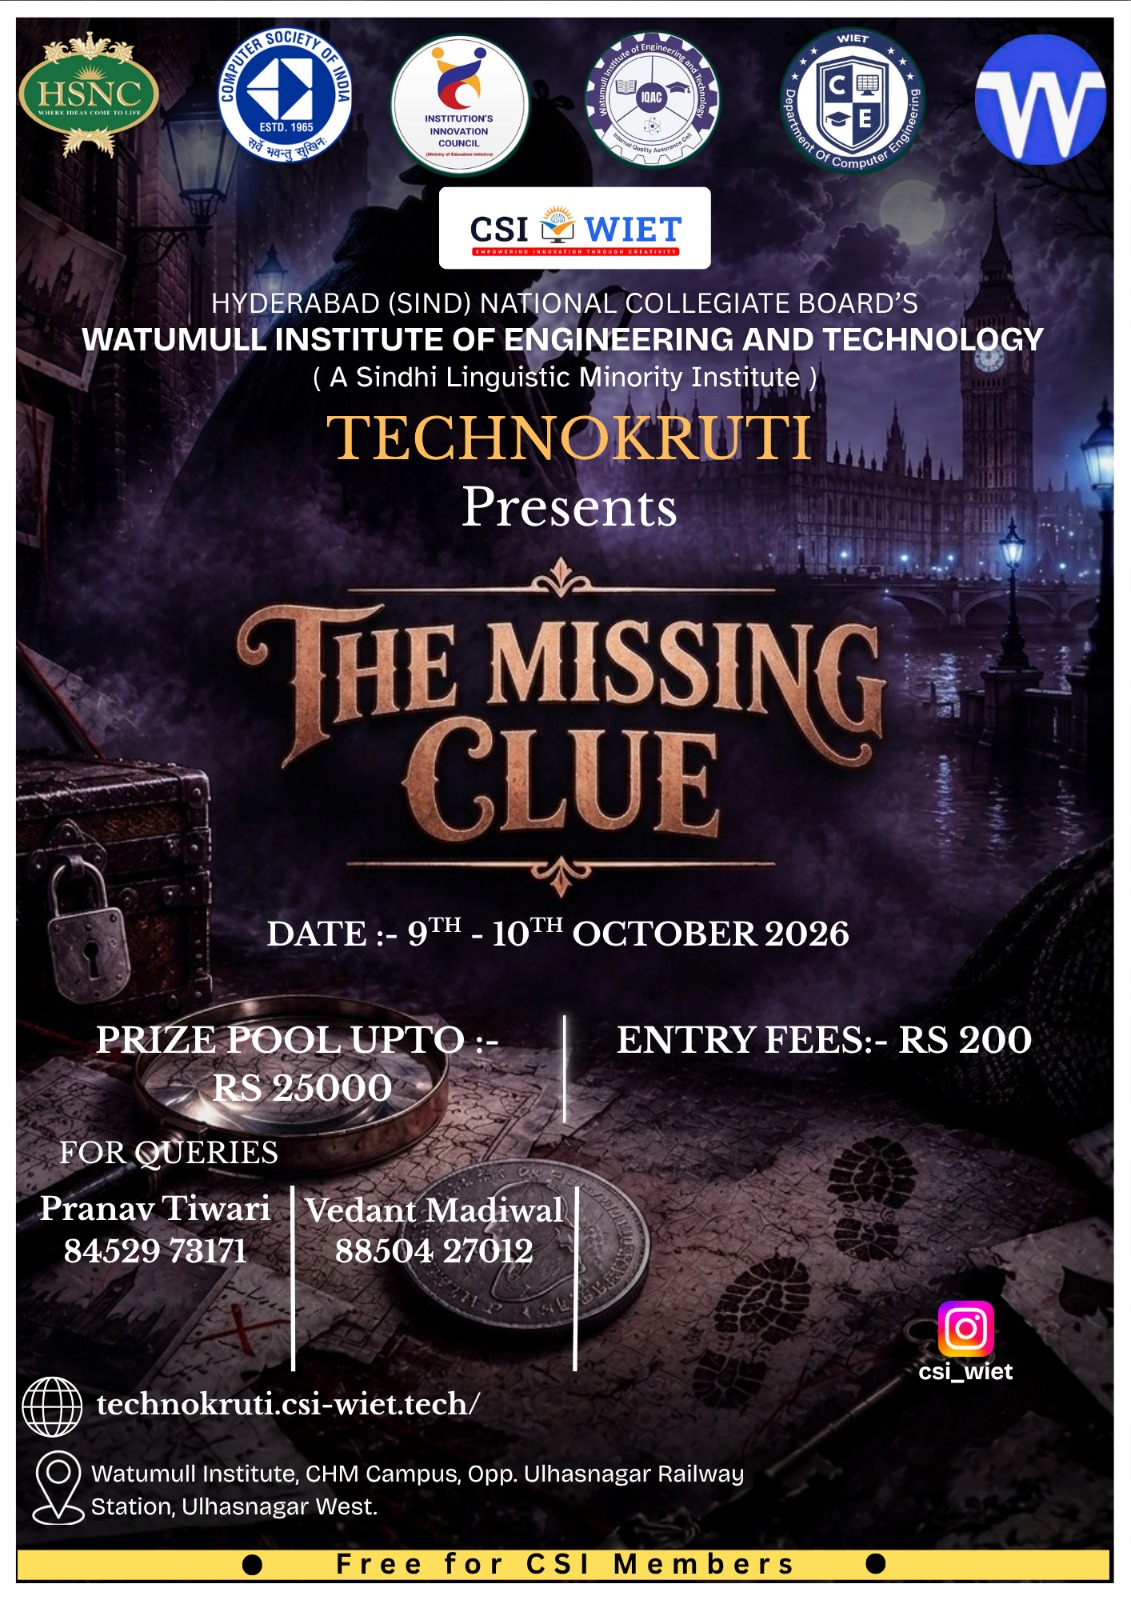
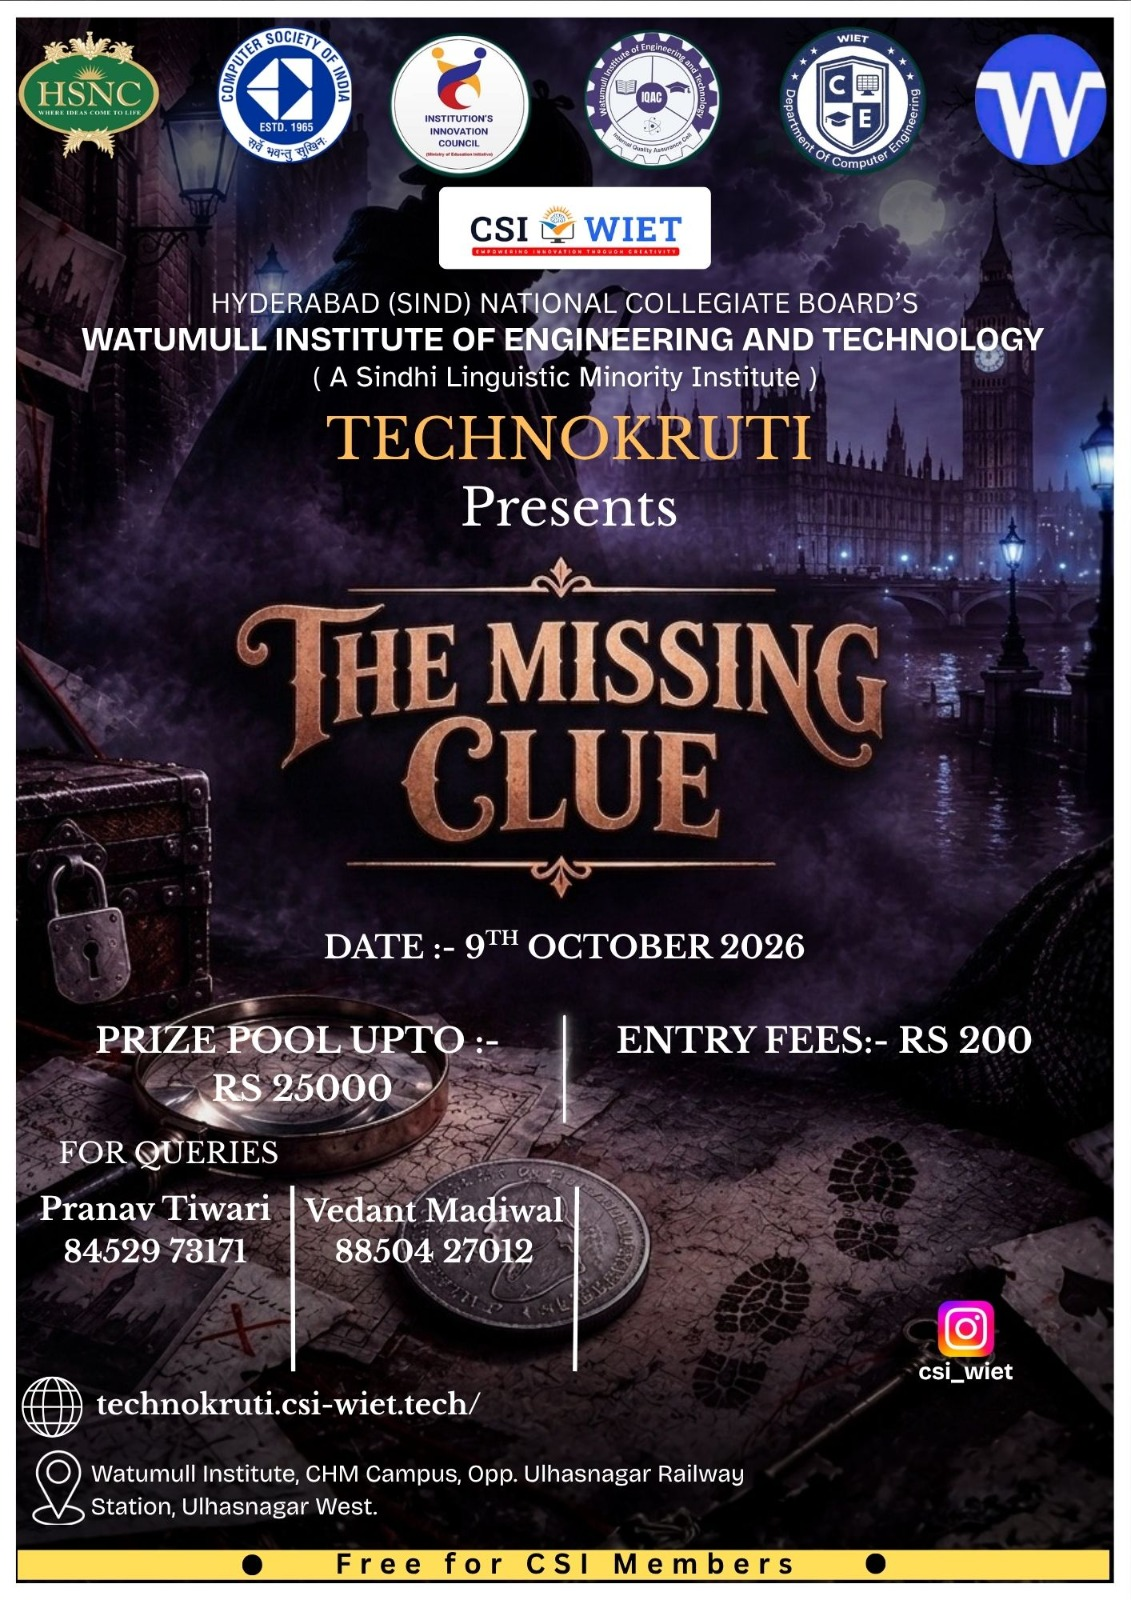
posters dates update

Changed region(s): [[0.2476, 0.5625, 0.7427, 0.625], [0.5261, 0.125, 0.588, 0.1562], [0.8355, 0.8125, 0.8665, 0.8438]]

diff --git a/src/data/siteData.js b/src/data/siteData.js
@@ -7,7 +7,7 @@ export const SITE = {
   dates: "9-10 October 2026",
   venue: "Watumull Institute of Engineering and Technology, Ulhasnagar",
   blurb:
-    "Somewhere between a locked-room mystery and a hackathon, a college festival went missing its imagination — until now. Technokruti is a three-day technical investigation: build, debug, and out-think 40+ teams across code, robotics, design and strategy, all staged as one long case file waiting to be solved.",
+    "Somewhere between a locked-room mystery and a hackathon, a college festival went missing its imagination — until now. Technokruti is a two-day technical investigation: build, debug, and out-think 40+ teams across code, robotics, design and strategy, all staged as one long case file waiting to be solved.",
 };
 
 export const NAV_LINKS = [
@@ -25,7 +25,7 @@ export const ABOUT_CLUES = [
     label: "Exhibit A",
     title: "A Festival, Disguised as a Mystery",
     text:
-      "Technokruti is our department's flagship technical festival — three days of competitive engineering wrapped in the atmosphere of 221B Baker Street. Every event is a 'case': a problem statement to interrogate, evidence to gather, and a solution to defend before the panel.",
+      "Technokruti is our department's flagship technical festival — two days of competitive engineering wrapped in the atmosphere of 221B Baker Street. Every event is a 'case': a problem statement to interrogate, evidence to gather, and a solution to defend before the panel.",
   },
   {
     label: "Exhibit B",
@@ -69,7 +69,7 @@ export const EVENTS = [
     group: "inter-college",
     title: "Ideathon",
     poster: "Ideathon.jpeg",
-    date: "9–10 October 2026",
+    date: "10 October 2026",
     prizePool: "₹25,000",
     entryFee: "₹250",
     registrationLink: "https://forms.gle/9ir3rzy9sHoufh7PA",
@@ -83,7 +83,7 @@ export const EVENTS = [
     group: "inter-college",
     title: "The Courtroom",
     poster: "courtroom.jpeg",
-    date: "9–10 October 2026",
+    date: "10 October 2026",
     prizePool: "₹25,000",
     entryFee: "₹200",
     registrationLink:"https://docs.google.com/forms/d/e/1FAIpQLSdGSnpcwQ4U5ESMGfCekdm33zsKCsnCydmAPr51wbHQ3ByBJg/viewform?usp=publish-editor",
@@ -98,7 +98,7 @@ export const EVENTS = [
     group: "inter-college",
     title: "Design Detective",
     poster: "Design Detective.jpeg",
-    date: "9–10 October 2026",
+    date: "10 October 2026",
     prizePool: "₹25,000",
     entryFee: "₹150",
     registrationLink: "https://forms.gle/CtmAsepVZbicmCsg7",
@@ -116,7 +116,7 @@ export const EVENTS = [
     group: "intra-college",
     title: "Crack the Code",
     poster: "Crack the Code.jpeg",
-    date: "9–10 October 2026",
+    date: "10 October 2026",
     prizePool: "₹25,000",
     entryFee: "₹150",
     registrationLink: "https://forms.gle/pRDDqmbo329NcCu26",
@@ -131,7 +131,7 @@ export const EVENTS = [
     group: "intra-college",
     title: "Bug Detective",
     poster: "Bug detective.jpeg",
-    date: "9–10 October 2026",
+    date: "9 October 2026",
     prizePool: "₹25,000",
     entryFee: "₹150",
     registrationLink:
@@ -147,7 +147,7 @@ export const EVENTS = [
     group: "intra-college",
     title: "The Mind Palace",
     poster: "mind palace.jpeg",
-    date: "9–10 October 2026",
+    date: "9 October 2026",
     prizePool: "₹25,000",
     entryFee: "₹50",
     registrationLink:
@@ -163,7 +163,7 @@ export const EVENTS = [
     group: "intra-college",
     title: "Watson Test",
     poster: "Watson Test.jpeg",
-    date: "9–10 October 2026",
+    date: "9 October 2026",
     prizePool: "₹25,000",
     entryFee: "₹50",
     registrationLink:
@@ -179,7 +179,7 @@ export const EVENTS = [
     group: "intra-college",
     title: "Sherlock's Solution",
     poster: "Sherlock's Solution.jpeg",
-    date: "9–10 October 2026",
+    date: "9 October 2026",
     prizePool: "₹25,000",
     entryFee: "₹100",
     registrationLink:
@@ -266,7 +266,7 @@ export const SCHEDULE = [
     date: "10 October 2026",
     subtitle: "The Investigation",
     items: [
-      { time: "10:00", title: "Design Detective", },
+      { time: "9:30", title: "Design Detective", },
       { time: "11:30", title: "Ideathon", },
       { time: "12:00", title: "Crack The code", },
       { time: "13:30", title: "The Courtroom", },

diff --git a/src/components/Events.jsx b/src/components/Events.jsx
@@ -113,7 +113,7 @@ export default function Events() {
           src={evidenceBoard}
           alt="An investigation corkboard with photos, notes and red string connecting suspects"
           eyebrow="The Board"
-          caption="Pin the evidence. Follow the thread. Eleven cases, three tracks."
+          caption="Pin the evidence. Follow the thread. Twelve cases, three tracks."
           className="mt-14"
         />
 
